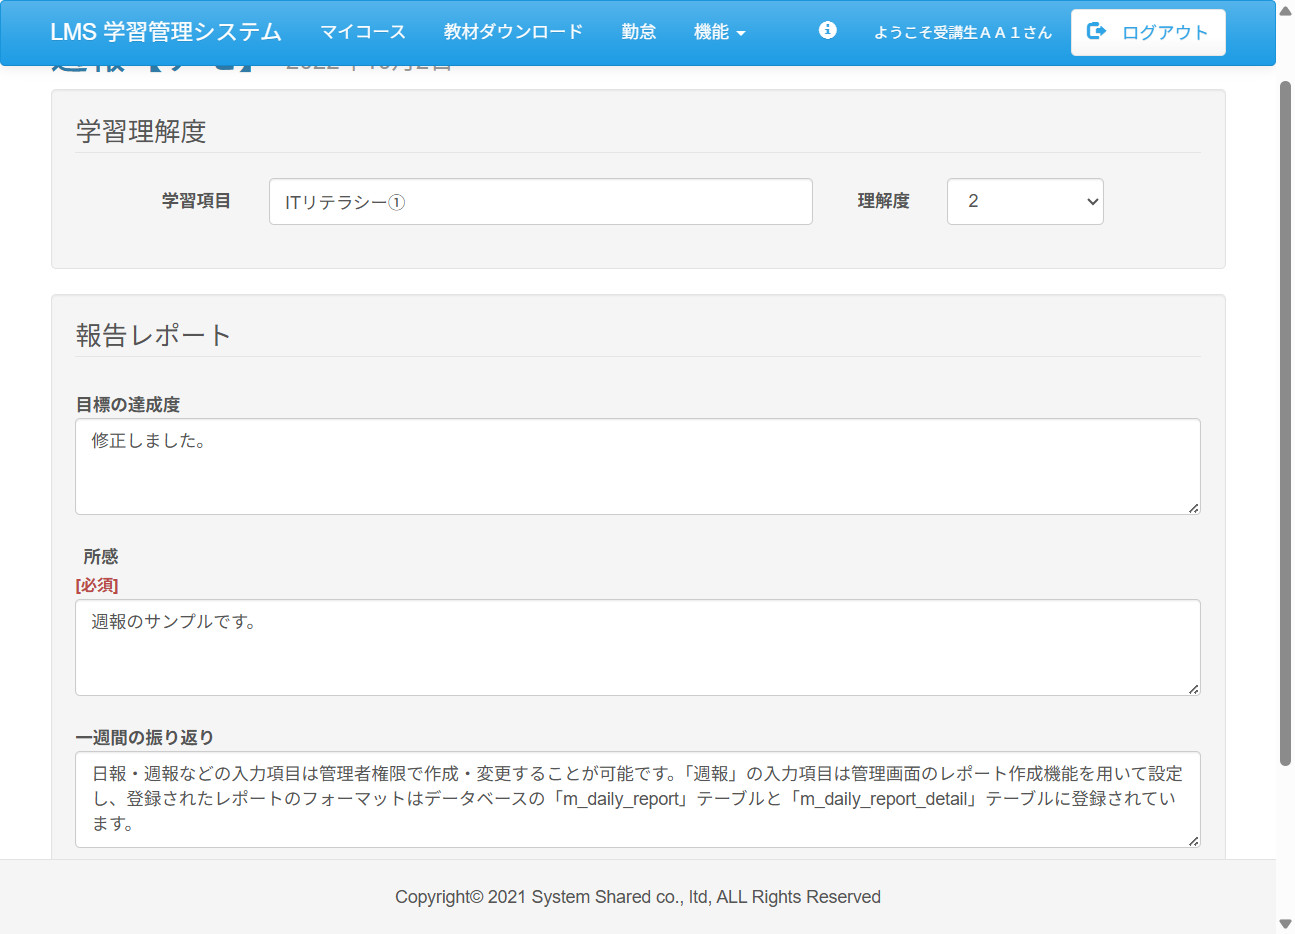
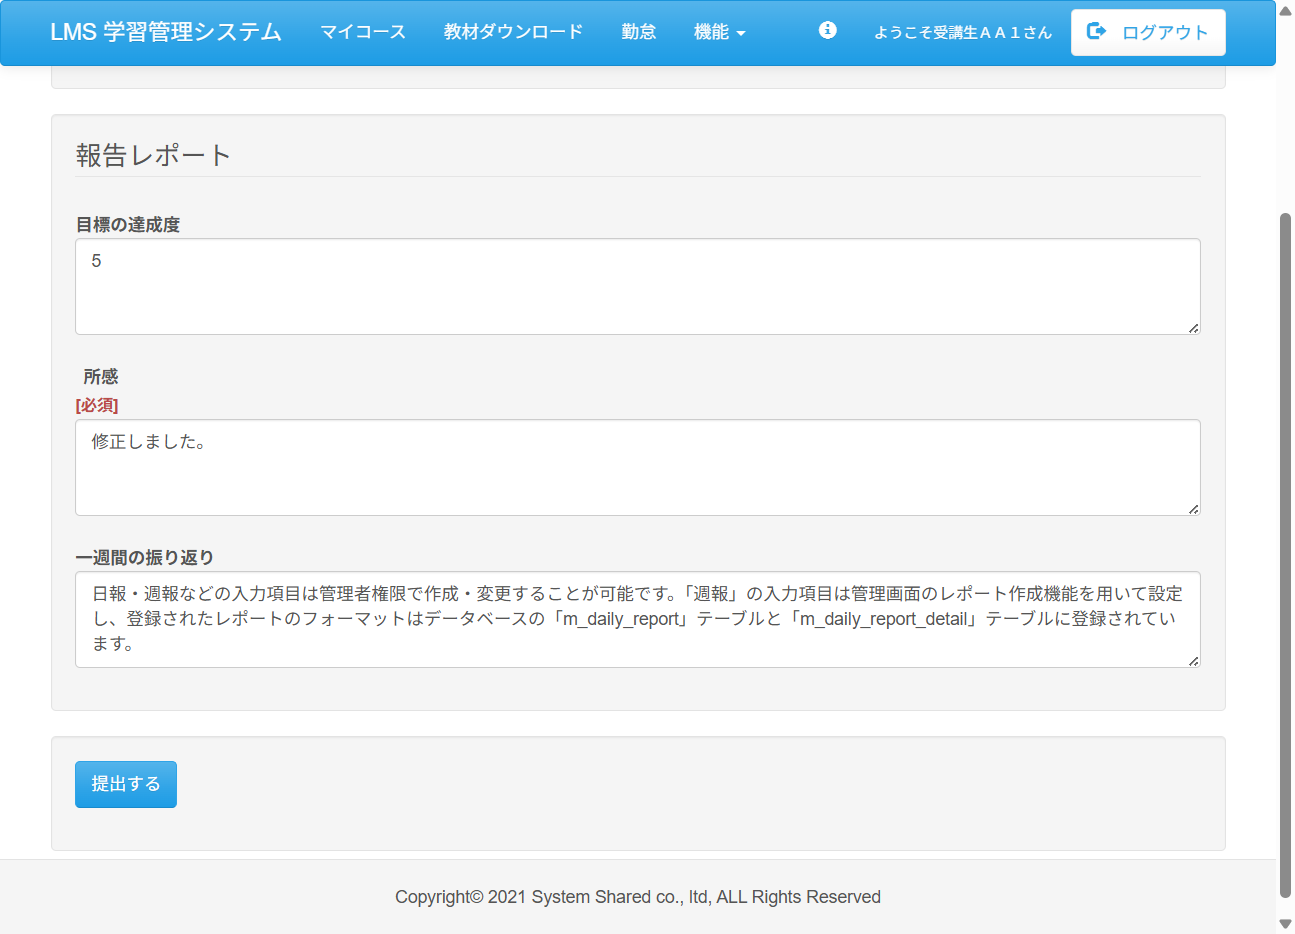
fix: Case07/Case08のテストコードと仕様書を完成

diff --git a/test_code_creation_name/src/test/java/jp/co/sss/lms/ct/f03_report/Case08.java b/test_code_creation_name/src/test/java/jp/co/sss/lms/ct/f03_report/Case08.java
@@ -3,6 +3,8 @@ package jp.co.sss.lms.ct.f03_report;
 import static jp.co.sss.lms.ct.util.WebDriverUtils.*;
 import static org.junit.jupiter.api.Assertions.*;
 
+import java.util.List;
+
 import org.junit.jupiter.api.AfterAll;
 import org.junit.jupiter.api.BeforeAll;
 import org.junit.jupiter.api.DisplayName;
@@ -11,6 +13,7 @@ import org.junit.jupiter.api.Order;
 import org.junit.jupiter.api.Test;
 import org.junit.jupiter.api.TestMethodOrder;
 import org.openqa.selenium.By;
+import org.openqa.selenium.WebElement;
 
 /**
  * 結合テスト レポート機能
@@ -53,11 +56,10 @@ public class Case08 {
 	void test02() {
 		// TODO ここに追加
 
-		// ケース08 - No.02 ログイン
-		typeText(By.id("loginId"), "StudentAA01", 5);
-		typeText(By.id("password"), "StudentAA011", 5);
-		clickElement(By.cssSelector("input[type='submit']"), 5);
-		assertTrue(isTitle("コース詳細 | LMS"));
+		// ケース08 - No.02 初回ログイン済みの受講生ユーザーでログイン
+		login("StudentAA01", "StudentAA011");
+
+		waitForTitle("コース詳細 | LMS", 10);
 
 	}
 
@@ -66,8 +68,6 @@ public class Case08 {
 	@DisplayName("テスト03 提出済の研修日の「詳細」ボタンを押下しセクション詳細画面に遷移")
 	void test03() {
 		// TODO ここに追加
-
-		waitForTitle("コース詳細 | LMS", 5);
 
 		// ケース08 - No.03 「提出済」ステータスの「詳細」ボタンを押下する
 		// ここでは「2022年10月2日(日)」行の「詳細」ボタンをクリックしている。
@@ -107,14 +107,14 @@ public class Case08 {
 		// TODO ここに追加
 
 		// ケース08 - No.05 報告内容を修正して「提出する」ボタンを押下する。
-		typeTextJs(By.id("content_0"), "修正しました。", 10);
+		typeTextJs(By.id("content_1"), "修正しました。", 10);
 
 		// エビデンス取得
 		getEvidence(new Object() {
 		}, "ケース08_受講生レポート修正(週報)_正常系_内容修正");
 
 		// 「提出する」ボタンをクリック
-		clickElement(By.cssSelector("button.btn.btn-primary"), 10);
+		clickJs(By.cssSelector("button.btn.btn-primary"));
 
 	}
 
@@ -124,12 +124,17 @@ public class Case08 {
 	void test06() {
 		// TODO ここに追加
 
-		// 「ようこそ受講生AA1さん」をクリック
-		clickElement(By.linkText("ようこそ受講生AA1さん"), 10);
+		// ケース08 - No.06 上部メニューの「ようこそ○○さん」リンクを押下
+		clickWelcomeGoToUserDetail();
+		List<WebElement> list = webDriver.findElements(By.xpath("//a[contains(@href,'/user/detail')]"));
+		System.out.println("要素数: " + list.size());
+		for (WebElement e : list) {
+			System.out.println("▶ text=" + e.getText());
+			System.out.println("▶ href=" + e.getAttribute("href"));
+		}
 
 		// タイトル確認
-		waitForTitle("ユーザー詳細 | LMS", 10);
-
+		waitForTitle("ユーザー詳細", 10);
 		// URL確認
 		assertTrue(isUrlEndsWith("/user/detail"));
 
@@ -144,14 +149,14 @@ public class Case08 {
 	void test07() {
 		// TODO ここに追加
 
-		// 「詳細」ボタンをクリック（該当レポート）
-		clickElement(By.xpath("//tr[td[contains(text(),'週報【デモ】')]]//input[@value='詳細']"), 10);
+		// ケース08 - No.07 該当レポートの「詳細」ボタンを押下する。
+		clickJs(By.xpath("//tr[td[contains(text(),'週報【デモ】')]]//input[@value='詳細']"));
 
-		// タイトル確認
+		// タイトルとURL確認
 		waitForTitle("レポート詳細 | LMS", 10);
 		assertTrue(isTitle("レポート詳細 | LMS"));
 
-		// 修正内容の確認（例：「今日はできました。」など）
+		// ケース08 - No.08 修正内容の確認
 		assertTrue(isTextPresent("修正しました。"));
 
 		// エビデンス取得

diff --git a/test_code_creation_name/src/test/java/jp/co/sss/lms/ct/util/WebDriverUtils.java b/test_code_creation_name/src/test/java/jp/co/sss/lms/ct/util/WebDriverUtils.java
@@ -366,7 +366,7 @@ public class WebDriverUtils {
 	}
 
 	/**
-	 * ⑭ 「未提出」などのステータスを含む行の「詳細」ボタンをクリック
+	 * ⑭10/27「未提出」などのステータスを含む行の「詳細」ボタンをクリック
 	 * @param keyword 例：「未提出」
 	 * @author 河島
 	 */
@@ -397,7 +397,8 @@ public class WebDriverUtils {
 	}
 
 	/**
-	 * ⑮ 「提出する」ボタン押下 → レポート登録画面に遷移
+	 * ⑮10/27
+	 *  「提出する」ボタン押下 → レポート登録画面に遷移
 	 * @author 河島
 	 */
 	public static void goToReport() {
@@ -421,7 +422,8 @@ public class WebDriverUtils {
 	}
 
 	/**
-	 * ⑰ JSを使ってテキストを上書き入力
+	 * ⑰10/27
+	 *  JSを使ってテキストを上書き入力
 	 * 
 	 * @param locator 入力対象の要素（例：By.id("content_0")）
 	 * @param text 入力する文字列
@@ -455,10 +457,12 @@ public class WebDriverUtils {
 	}
 
 	/**
-	 * ⑱指定した文字列を含むURLになるまで待機
+	 * ⑱10/28
+	 * 指定した文字列を含むURLになるまで待機
 	 * 
 	 * @param url 含まれるURL部分
 	 * @param seconds タイムアウト秒数
+	 * @河島
 	 */
 	public static void waitForUrlContaints(String url, int seconds) {
 		WebDriverWait wait = new WebDriverWait(webDriver, Duration.ofSeconds(seconds));
@@ -481,4 +485,63 @@ public class WebDriverUtils {
 		}
 	}
 
+	/**
+	 * ⑳10/28 
+	 * JSで
+	強制的にユーザー詳細へ遷移する
+	 */
+	public static void clickWelcomeGoToUserDetail() {
+		try {
+			WebDriverWait wait = new WebDriverWait(webDriver, Duration.ofSeconds(10));
+			wait.until(ExpectedConditions.presenceOfElementLocated(By.tagName("nav")));
+
+			// JSで強制的にユーザー詳細画面へ遷移させる
+			((JavascriptExecutor) webDriver)
+					.executeScript("window.location.href='http://localhost:8080/lms/user/detail';");
+
+			System.out.println("◎ユーザー詳細画面に遷移しました。");
+
+		} catch (Exception e) {
+			System.err.println("×ユーザー詳細への強制遷移に失敗しました: " + e.getMessage());
+		}
+	}
+
+	/**
+	 * ㉑ 10/28 任意のユーザーでログインする
+	 * @param loginUser ログインID
+	 * @param password パスワード
+	 * @author 河島
+	 */
+	public static void login(String loginUser, String password) {
+		try {
+			// 入力欄が表示されるまで待機（5秒）
+			WebDriverWait wait = new WebDriverWait(webDriver, Duration.ofSeconds(5));
+			WebElement idField = wait.until(ExpectedConditions.visibilityOfElementLocated(By.id("loginId")));
+			WebElement pwField = wait.until(ExpectedConditions.visibilityOfElementLocated(By.id("password")));
+
+			// 値をクリアして入力
+			idField.clear();
+			idField.sendKeys(loginUser);
+			System.out.println("◎入力欄に「" + loginUser + "」を入力しました。");
+
+			pwField.clear();
+			pwField.sendKeys(password);
+			System.out.println("◎入力欄に「" + password + "」を入力しました。");
+
+			// ログインボタン押下
+			WebElement submitBtn = wait
+					.until(ExpectedConditions.elementToBeClickable(By.cssSelector("input[type='submit']")));
+			submitBtn.click();
+			System.out.println("◎ログインボタンをクリックしました。");
+
+			// ページ遷移確認
+			wait.until(ExpectedConditions.or(
+					ExpectedConditions.titleContains("コース詳細"),
+					ExpectedConditions.urlContains("/course/detail")));
+			System.out.println("◎ログイン成功。コース詳細画面が表示されました。");
+
+		} catch (Exception e) {
+			System.err.println("×ログイン処理に失敗しました: " + e.getMessage());
+		}
+	}
 }

diff --git a/test_code_creation_name/src/test/java/jp/co/sss/lms/ct/f03_report/Case07.java b/test_code_creation_name/src/test/java/jp/co/sss/lms/ct/f03_report/Case07.java
@@ -41,6 +41,7 @@ public class Case07 {
 
 		// ケース07 - No.01 トップページにアクセス
 		goTo("http://localhost:8080/lms/");
+
 		assertTrue(isTitle("ログイン | LMS"));
 		assertTrue(isElementPresentById("loginId"));
 		assertTrue(isElementPresentById("password"));
@@ -58,9 +59,8 @@ public class Case07 {
 		// TODO ここに追加
 
 		// ケース07 - No.02 ログイン
-		typeText(By.id("loginId"), "StudentAA01", 5);
-		typeText(By.id("password"), "StudentAA011", 5);
-		clickElement(By.cssSelector("input[type='submit']"), 5);
+		login("StudentAA01", "StudentAA011");
+
 		assertTrue(isTitle("コース詳細 | LMS"));
 
 		// エビデンス取得

diff --git a/test_code_creation_name/src/test/java/jp/co/sss/lms/ct/f01_login1/Case02.java b/test_code_creation_name/src/test/java/jp/co/sss/lms/ct/f01_login1/Case02.java
@@ -66,9 +66,7 @@ public class Case02 {
 		// TODO ここに追加
 
 		// ケース02 - No.03 DBに登録されていないユーザを入力し、「ログイン」ボタン押下。
-		webDriver.findElement(By.id("loginId")).sendKeys("NotStudentAA01");
-		webDriver.findElement(By.id("password")).sendKeys("StudentAA011");
-		webDriver.findElement(By.cssSelector("input[type='submit']")).click();
+		login("NotStudentAA01", "StudentAA011");
 
 		// ケース02 - No.04 エラーメッセージの表示確認
 		WebElement error = webDriver.findElement(By.cssSelector("span.help-inline.error"));
